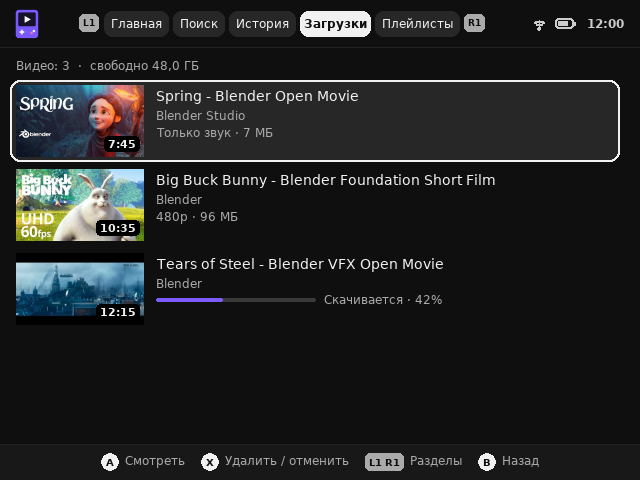
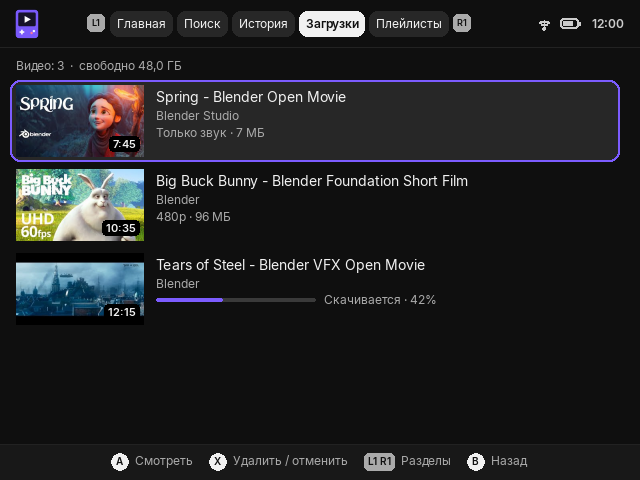
Unify focus highlight with an animated ring and smooth list scrolling

diff --git a/userdata/system/pockettube/main.py b/userdata/system/pockettube/main.py
@@ -40,6 +40,7 @@ ACC = (124, 92, 255)
 LIVE_RED = (230, 33, 60)
 ERR_RED = (255, 90, 110)
 ERR_SOFT = (255, 138, 155)
+FOCUS_W = 2  # width of the accent focus ring
 ERR_BG, ERR_FG = (58, 20, 24), (255, 218, 223)
 TINTS = [(59, 47, 74), (47, 74, 68), (74, 59, 47), (47, 61, 74), (74, 47, 59), (59, 74, 47)]
 
@@ -153,6 +154,7 @@ class App:
             pass
         self.logo_cache = {}
         self.toasts = []
+        self.anims, self.anim_prev, self.anim_now, self.focus_ring, self.list_off = {}, set(), set(), None, 0
         self.store = store_mod.Store()
         i18n.set_lang(self.store.settings["lang"])
         self.show_splash()
@@ -180,6 +182,49 @@ class App:
         self.pick_sel, self.pick_back = 0, "video"
         self.kb_target, self.saved_query, self.name_back = "search", "", "playlists"
         self.del_confirm = (None, 0)
+
+    # --- motion -------------------------------------------------------------
+
+    def anim(self, key, target, k=0.45):
+        """Ease a tuple of numbers towards target; snaps when the key wasn't drawn last frame."""
+        cur = self.anims.get(key)
+        if cur is None or key not in self.anim_prev or len(cur) != len(target):
+            cur = list(target)
+        else:
+            cur = [t if abs(t - c) < 0.5 else c + (t - c) * k for c, t in zip(cur, target)]
+        self.anims[key] = cur
+        self.anim_now.add(key)
+        return cur
+
+    def hl(self, rect, radius=10, fill=None, grow=0, key=None):
+        """Focus highlight: optional fill under the item now, accent ring on top at the end of the frame."""
+        # animate in content coordinates so the ring stays put while its list scrolls
+        target = pygame.Rect(rect).inflate(grow, grow).move(0, round(self.list_off))
+        x, y, w, h = self.anim("focus:" + (key or self.view), tuple(target))
+        r = pygame.Rect(round(x), round(y - self.list_off), round(w), round(h))
+        if fill:
+            pygame.draw.rect(self.screen, fill, r.inflate(-grow, -grow), border_radius=radius)
+        self.focus_ring = (r, radius + grow // 2, self.screen.get_clip())
+
+    def scroller(self, key, first, count, per, row_h, top_y, bar=True):
+        """Smoothly scrolled list window: returns (offset, visible indexes, clip) and draws the scrollbar.
+        Clips drawing to the list until end_list()."""
+        off = self.anim("scroll:" + key, (first * row_h,))[0]
+        start = int(off // row_h)
+        end = min(count, start + per + (1 if off != start * row_h else 0))
+        if bar and count > per:
+            track = pygame.Rect(W - 12, top_y + 4, 4, per * row_h - 8)
+            pygame.draw.rect(self.screen, SURF, track, border_radius=2)
+            hgt = max(20, track.h * per // count)
+            pos = track.y + int((track.h - hgt) * off / ((count - per) * row_h))
+            pygame.draw.rect(self.screen, DIM, (track.x, pos, 4, hgt), border_radius=2)
+        self.list_off = off
+        self.screen.set_clip(pygame.Rect(0, top_y - 3, W, per * row_h + 3))
+        return off, range(start, end)
+
+    def end_list(self):
+        self.list_off = 0
+        self.screen.set_clip(None)
 
     def show_splash(self):
         thread = threading.Thread(target=load_backend, daemon=True)
@@ -312,8 +357,7 @@ class App:
     def draw_video_row(self, y, v, idx, selected, status=None, progress=None):
         s = self.screen
         if selected:
-            pygame.draw.rect(s, SURF, (10, y, W - 30, 82), border_radius=10)
-            pygame.draw.rect(s, FG, (10, y, W - 30, 82), 2, border_radius=10)
+            self.hl((10, y, W - 30, 82), 10, fill=SURF)
         self.draw_thumb(v["id"], 16, y + 5, 128, 72, idx)
         live = v.get("live")
         if v.get("kind") == "playlist":
@@ -339,14 +383,10 @@ class App:
             return
         per = max(1, (H - 36 - top_y) // 84)
         first = max(0, min(sel - 1, len(items) - per))
-        for i, item in enumerate(items[first:first + per]):
-            row_fn(top_y + i * 84, item, first + i, first + i == sel)
-        if len(items) > per:
-            track = pygame.Rect(W - 12, top_y + 4, 4, per * 84 - 8)
-            pygame.draw.rect(s, SURF, track, border_radius=2)
-            hgt = max(20, track.h * per // len(items))
-            pos = track.y + (track.h - hgt) * first // max(1, len(items) - per)
-            pygame.draw.rect(s, DIM, (track.x, pos, 4, hgt), border_radius=2)
+        off, rows = self.scroller(self.view, first, len(items), per, 84, top_y)
+        for i in rows:
+            row_fn(top_y + i * 84 - round(off), items[i], i, i == sel)
+        self.end_list()
 
     def draw_skeleton(self, top_y):
         s = self.screen
@@ -357,12 +397,12 @@ class App:
             pygame.draw.rect(s, LINE, (156, y + 32, int(4.4 * b), 14), border_radius=7)
             pygame.draw.rect(s, SKEL, (156, y + 54, 130, 10), border_radius=5)
 
-    def draw_button(self, label, key, x, y, w, focused, primary=None):
+    def draw_button(self, label, key, x, y, w, focused, primary=None, focus_key=None):
         s = self.screen
         primary = focused if primary is None else primary
         r = pygame.Rect(x, y, w, 42)
         if focused:
-            pygame.draw.rect(s, ACC, r.inflate(10, 10), 3, border_radius=26)
+            self.hl(r, 21, grow=10, key=focus_key)
         pygame.draw.rect(s, FG if primary else SURF, r, border_radius=21)
         kx = x + 14
         pygame.draw.circle(s, INK if primary else FG, (kx + 10, y + 21), 10)
@@ -394,8 +434,14 @@ class App:
         self.toasts.append((msg, kind, time.time() + 3.5))
 
     def draw(self):
+        self.anim_prev, self.anim_now, self.focus_ring, self.list_off = self.anim_now, set(), None, 0
         self.screen.fill(BG)
         getattr(self, "draw_" + self.view)()
+        if self.focus_ring:
+            r, radius, clip = self.focus_ring
+            self.screen.set_clip(clip)
+            pygame.draw.rect(self.screen, ACC, r, FOCUS_W, border_radius=radius)
+            self.screen.set_clip(None)
         self.draw_toasts()
         pygame.display.flip()
 
@@ -409,7 +455,7 @@ class App:
         for i, v in enumerate(cards):
             x, y = 16 + i * 200, 88
             if self.home_row == 0 and self.home_col == i:
-                pygame.draw.rect(s, FG, (x - 5, y - 5, 198, 116), 3, border_radius=11)
+                self.hl((x, y, 188, 106), 8, grow=10)
             self.draw_thumb(v["id"], x, y, 188, 106, i)
             dur = v.get("duration") or 0
             pygame.draw.rect(s, TRACK, (x, y + 103, 188, 3))
@@ -429,6 +475,8 @@ class App:
             if x + w > W - 16:
                 x, y = 16, y + 42
             on = self.home_row == 1 and self.home_col == i
+            if on:
+                self.hl((x, y, w, 32), 16, grow=8)
             pygame.draw.rect(s, FG if on else SURF, (x, y, w, 32), border_radius=16)
             pygame.draw.circle(s, INK if on else DIM, (x + 19, y + 16), 6, 2)
             pygame.draw.line(s, INK if on else DIM, (x + 19, y + 16), (x + 19, y + 12), 2)
@@ -465,7 +513,7 @@ class App:
             y = 102 + i * 26
             on = self.ky == -1 and self.sugg_i == i
             if on:
-                pygame.draw.rect(s, SURF, (12, y - 2, W - 24, 24), border_radius=6)
+                self.hl((12, y - 2, W - 24, 24), 6, fill=SURF)
             pygame.draw.circle(s, DIM, (26, y + 10), 5, 2)
             text(s, sg, (40, y + 2), 13, FG if on else SOFT, max_w=W - 60)
         rows = KB[self.lang]
@@ -477,9 +525,9 @@ class App:
             for x, ch in enumerate(row):
                 r = pygame.Rect(x0 + x * (kw + gap), top + y * (kh + gap), kw, kh)
                 on = (x, y) == (self.kx, self.ky)
-                pygame.draw.rect(s, FG if on else SURF, r, border_radius=8)
                 if on:
-                    pygame.draw.rect(s, ACC, r.inflate(4, 4), 3, border_radius=10)
+                    self.hl(r, 8, grow=6)
+                pygame.draw.rect(s, FG if on else SURF, r, border_radius=8)
                 text(s, ch, r.center[:1] + (r.y + 10,), 16, INK if on else FG, center=True)
         y = len(rows)
         sw = (W - 32 - 3 * gap) // 4
@@ -488,9 +536,9 @@ class App:
             r = pygame.Rect(16 + x * (sw + gap), top + y * (kh + gap), sw, kh)
             on = (x, y) == (self.kx, self.ky)
             find = kid == "find"
-            pygame.draw.rect(s, FG if on else (ACC if find else SURF), r, border_radius=8)
             if on:
-                pygame.draw.rect(s, ACC, r.inflate(4, 4), 3, border_radius=10)
+                self.hl(r, 8, grow=6)
+            pygame.draw.rect(s, FG if on else (ACC if find else SURF), r, border_radius=8)
             text(s, label, (r.centerx, r.y + 12), 13, INK if on else FG, find, center=True)
         self.draw_footer([("A", T("hint_enter")), ("X", T("hint_erase")), ("Y", T("hint_space")),
                           ("START", T("key_save") if naming else T("hint_find")), ("B", T("hint_back"))])
@@ -532,8 +580,7 @@ class App:
             y = py + 54 + i * 46
             on = i == self.fsel
             if on:
-                pygame.draw.rect(s, SURF, (px + 10, y, pw - 20, 40), border_radius=8)
-                pygame.draw.rect(s, FG, (px + 10, y, pw - 20, 40), 2, border_radius=8)
+                self.hl((px + 10, y, pw - 20, 40), 8, fill=SURF, key="filters")
             text(s, T("f_" + k), (px + 24, y + 11), 14, FG)
             val = self.filters.get(k, youtube.FILTERS[k][0][0])
             shown = f"◀  {T('fv_' + k + '_' + val)}  ▶"
@@ -634,9 +681,7 @@ class App:
         bfocus = self.vfocus == "buttons"
         for i, (label, key) in enumerate(labels):
             by = 278 + i * 52
-            self.draw_button(label, key, 360, by, 260, bfocus and self.vbtn == i, primary=(i == 0))
-            if bfocus and self.vbtn == i and i > 0:
-                pygame.draw.rect(s, ACC, (355, by - 5, 270, 52), 3, border_radius=26)
+            self.draw_button(label, key, 360, by, 260, bfocus and self.vbtn == i, primary=(i == 0), focus_key="video")
         self.draw_related()
         hints = [("A", T("hint_select"))]
         if not live:
@@ -656,18 +701,19 @@ class App:
             text(s, T("related_none"), (20, 272), 12, DIM)
             return
         first = max(0, min(self.rsel - 1, len(self.related) - 3))
-        for i, r in enumerate(self.related[first:first + 3]):
-            idx = first + i
-            y = 266 + i * 58
+        off, rows = self.scroller("related", first, len(self.related), 3, 58, 266, bar=False)
+        for idx in rows:
+            r = self.related[idx]
+            y = 266 + idx * 58 - round(off)
             on = self.vfocus == "related" and idx == self.rsel
             if on:
-                pygame.draw.rect(s, SURF, (14, y - 3, 330, 58), border_radius=8)
-                pygame.draw.rect(s, FG, (14, y - 3, 330, 58), 2, border_radius=8)
+                self.hl((14, y - 3, 330, 58), 8, fill=SURF, key="video")
             self.draw_thumb(r["id"], 20, y, 92, 52, idx)
             self.draw_badge(youtube.format_duration(r.get("duration")) if r.get("duration") else "LIVE", 110, y + 50, red=not r.get("duration"))
             for j, line in enumerate(wrap(r.get("title", ""), font(12), 216, 2)):
                 text(s, line, (120, y + 2 + j * 15), 12, FG)
             text(s, r.get("channel", ""), (120, y + 34), 11, DIM, max_w=216)
+        self.end_list()
 
     def draw_offline(self):
         s = self.screen
@@ -681,8 +727,6 @@ class App:
         busy = self.retry_task and not self.retry_task.done
         self.draw_button(T("checking") if busy else T("retry"), "A", 110, 320, 200, self.obtn == 0, primary=True)
         self.draw_button(T("tab_downloads"), "Y", 330, 320, 200, self.obtn == 1, primary=False)
-        if self.obtn == 1:
-            pygame.draw.rect(s, ACC, (325, 315, 210, 52), 3, border_radius=26)
         self.draw_footer([("A", T("hint_select")), ("Y", T("tab_downloads")), ("B", T("hint_exit"))])
 
     def settings_rows(self):
@@ -716,13 +760,12 @@ class App:
         rows = self.settings_rows()
         vis = 8
         first = max(0, min(self.ssel - vis + 2, len(rows) - vis))
-        for i, (label, hint, value) in enumerate(rows):
-            if not first <= i < first + vis:
-                continue
-            y = 55 + (i - first) * 48
+        off, visible = self.scroller("settings", first, len(rows), vis, 48, 55)
+        for i in visible:
+            label, hint, value = rows[i]
+            y = 55 + i * 48 - round(off)
             if i == self.ssel:
-                pygame.draw.rect(s, SURF, (20, y, W - 40, 44), border_radius=10)
-                pygame.draw.rect(s, FG, (20, y, W - 40, 44), 2, border_radius=10)
+                self.hl((20, y, W - 40, 44), 10, fill=SURF)
             text(s, label, (34, y + 4), 15, FG)
             text(s, hint, (34, y + 24), 12, DIM, max_w=360)
             if value:
@@ -732,12 +775,7 @@ class App:
                 w = f.size(shown)[0] + 20
                 pygame.draw.rect(s, SURF_HI if i == self.ssel else SURF, (W - 34 - w, y + 8, w, 28), border_radius=8)
                 text(s, shown, (W - 24 - w, y + 13), 13, ERR_SOFT if i == 3 else FG)
-        if len(rows) > vis:
-            track = pygame.Rect(W - 12, 58, 4, vis * 48 - 8)
-            pygame.draw.rect(s, SURF, track, border_radius=2)
-            hgt = max(20, track.h * vis // len(rows))
-            pos = track.y + (track.h - hgt) * first // max(1, len(rows) - vis)
-            pygame.draw.rect(s, DIM, (track.x, pos, 4, hgt), border_radius=2)
+        self.end_list()
         self.draw_footer([("◀▶", T("hint_change")), ("A", T("hint_select")), ("B", T("hint_back"))])
 
     def switch_tab(self, step):
@@ -1170,13 +1208,12 @@ class App:
         self.lsel = max(0, min(self.lsel, len(rows) - 1))
         per = (H - 36 - 58) // 64
         first = max(0, min(self.lsel - per + 2, len(rows) - per))
-        for i, p in enumerate(rows[first:first + per]):
-            idx = first + i
-            y = 58 + i * 64
-            on = idx == self.lsel
-            if on:
-                pygame.draw.rect(s, SURF, (10, y, W - 30, 58), border_radius=10)
-                pygame.draw.rect(s, FG, (10, y, W - 30, 58), 2, border_radius=10)
+        off, visible = self.scroller("playlists", first, len(rows), per, 64, 58)
+        for idx in visible:
+            p = rows[idx]
+            y = 58 + idx * 64 - round(off)
+            if idx == self.lsel:
+                self.hl((10, y, W - 30, 58), 10, fill=SURF)
             if p is None:
                 pygame.draw.rect(s, SURF_HI, (18, y + 7, 78, 44), border_radius=8)
                 text(s, "+", (57, y + 13), 22, FG, True, center=True)
@@ -1190,12 +1227,7 @@ class App:
             self.draw_badge(str(len(items)), 92, y + 47)
             text(s, self.playlist_name(p), (110, y + 10), 15, FG, max_w=W - 150)
             text(s, self.n_videos(len(items)), (110, y + 32), 12, DIM)
-        if len(rows) > per:
-            track = pygame.Rect(W - 12, 62, 4, per * 64 - 8)
-            pygame.draw.rect(s, SURF, track, border_radius=2)
-            hgt = max(20, track.h * per // len(rows))
-            pos = track.y + (track.h - hgt) * first // max(1, len(rows) - per)
-            pygame.draw.rect(s, DIM, (track.x, pos, 4, hgt), border_radius=2)
+        self.end_list()
         self.draw_footer([("A", T("hint_open")), ("X", T("hint_delete")), ("L1 R1", T("hint_sections")), ("B", T("hint_back"))])
 
     def key_playlists(self, key):
@@ -1307,13 +1339,14 @@ class App:
         px, py = (W - pw) // 2, max(30, (H - 36 - ph) // 2)
         pygame.draw.rect(s, SURF_DARK, (px, py, pw, ph), border_radius=14)
         text(s, T("save_to"), (px + 20, py + 16), 17, FG, True)
-        for i, p in enumerate(rows[first:first + vis]):
-            idx = first + i
-            y = py + 54 + i * 46
+        off, visible = self.scroller("pick", first, len(rows), vis, 46, py + 54, bar=False)
+        for idx in visible:
+            p = rows[idx]
+            y = py + 54 + idx * 46 - round(off)
             on = idx == self.pick_sel
             if on:
-                pygame.draw.rect(s, FG, (px + 10, y, pw - 20, 40), border_radius=8)
-            col = INK if on else FG
+                self.hl((px + 10, y, pw - 20, 40), 8, fill=SURF, key="pick")
+            col = FG
             if p is None:
                 text(s, "+  " + T("new_playlist"), (px + 24, y + 11), 14, col)
                 continue
@@ -1322,7 +1355,8 @@ class App:
             if self.store.in_playlist(p["id"], self.video["id"]):
                 pygame.draw.rect(s, ACC, box.inflate(-6, -6), border_radius=2)
             text(s, self.playlist_name(p), (px + 54, y + 11), 14, col, max_w=pw - 120)
-            text(s, str(len(p["items"])), (px + pw - 24, y + 11), 13, INK if on else DIM, right=True)
+            text(s, str(len(p["items"])), (px + pw - 24, y + 11), 13, FG if on else DIM, right=True)
+        self.end_list()
         self.draw_footer([("A", T("hint_toggle")), ("B", T("hint_done"))])
 
     def key_pick(self, key):

diff --git a/CHANGELOG.md b/CHANGELOG.md
@@ -3,6 +3,7 @@
 ## Unreleased
 
 - Interface font is now Inter (bundled in `assets/fonts`); DejaVu Sans stays as a fallback.
+- One focus style everywhere: a purple ring that glides to the selected item; lists scroll smoothly under it.
 
 ## 1.0
 
